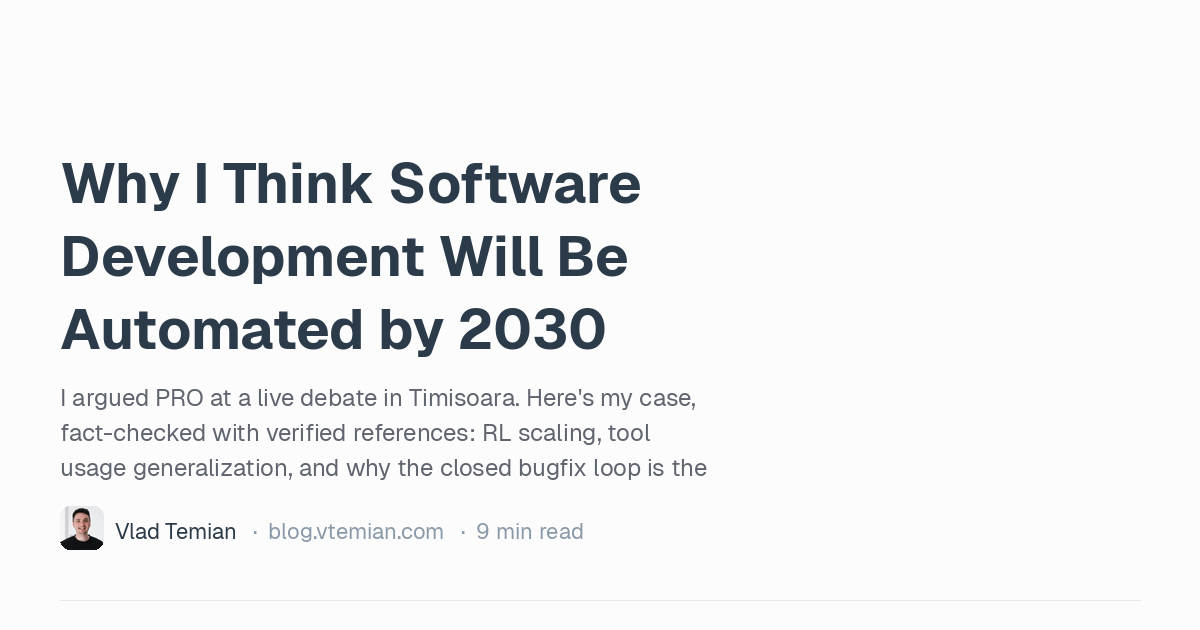
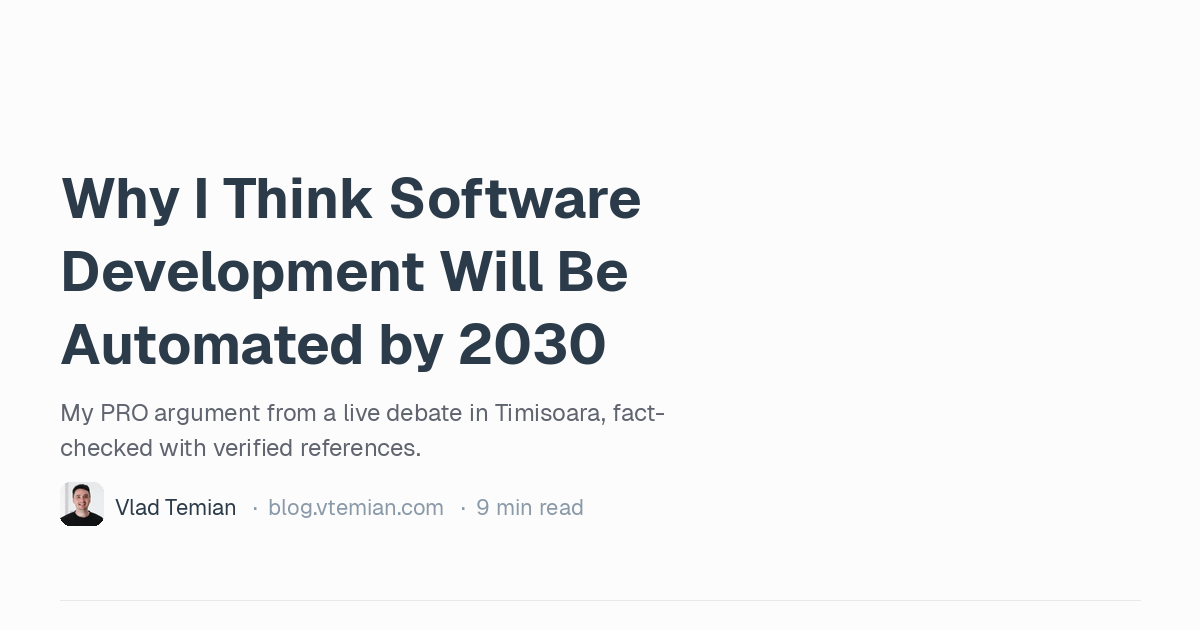
Shorten description and regenerate OG image

Changed region(s): [[0.0308, 0.2413, 0.5858, 0.8746], [0.4008, 0.7841, 0.4933, 0.8746]]

diff --git a/content/talk/will-ai-automate-the-sdlc-by-2030/index.md b/content/talk/will-ai-automate-the-sdlc-by-2030/index.md
@@ -1,7 +1,7 @@
 ---
 title: "Why I Think Software Development Will Be Automated by 2030"
 date: 2026-03-27T10:00:00+02:00
-description: "I argued PRO at a live debate in Timisoara. Here's my case, fact-checked with verified references: RL scaling, tool usage generalization, and why the closed bugfix loop is the finish line."
+description: "My PRO argument from a live debate in Timisoara, fact-checked with verified references."
 keywords:
     - ai sdlc automation
     - reinforcement learning
